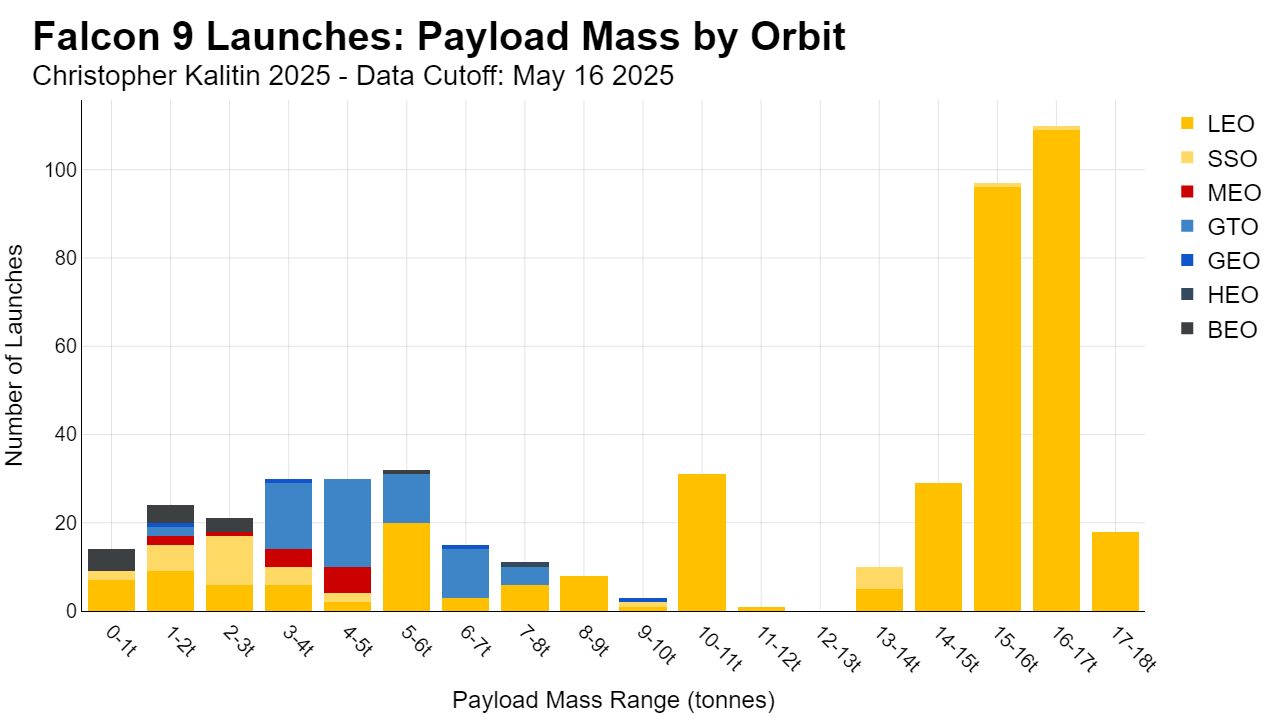
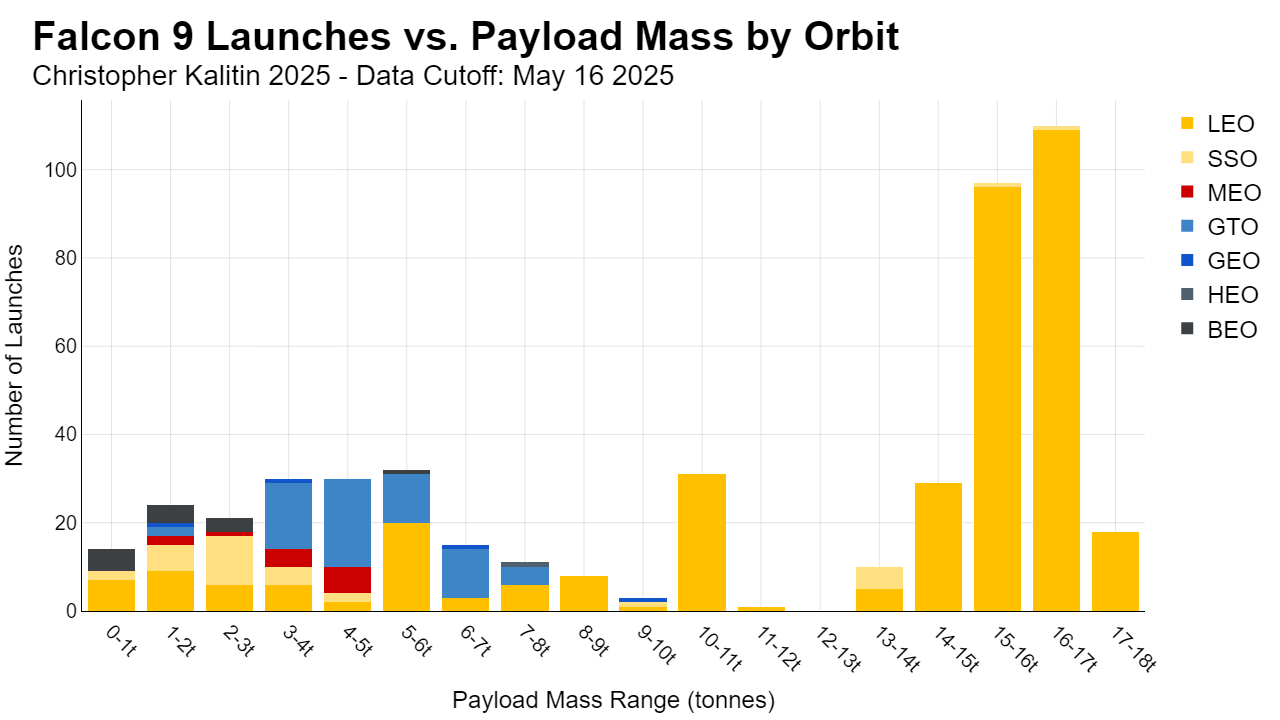
More histogram to chart_utils

diff --git a/src/chart_utils.py b/src/chart_utils.py
@@ -1,10 +1,22 @@
 import pandas as pd
 import matplotlib.pyplot as plt
+import plotly.express as px
+import plotly.io as pio
 
 class ChartUtils:
     """
     This class contains utility functions for working with dataframes and generating charts.
     """
+    
+    orbit_color_map = {
+        'LEO': '#ffc000',
+        'SSO': "#ffdf80",
+        'MEO': '#cc0000',
+        'GTO': '#3d85c6',
+        'GEO': '#1155cc',
+        'HEO': "#51606e",
+        'BEO': '#3c4043'
+    }
     
     def pivot_dataframe(df, index_col, column_col, value_col):
         """
@@ -62,18 +74,50 @@ class ChartUtils:
         plt.close()
         print(f"Plot saved as '{output_path}'.")
 
-    def plot_histogram(df, title, xlabel, ylabel, output_path, stacked=True, figsize=(10, 6)):
-        """
-        Generate a histogram-like plot for a DataFrame with binned data.
-        """
-        plt.figure(figsize=figsize)
-        df.plot(kind='bar', stacked=stacked)
-        plt.title(title)
-        plt.xlabel(xlabel)
-        plt.ylabel(ylabel)
-        plt.grid(True)
-        plt.tight_layout()
-        plt.savefig(output_path)
-        plt.close()
+    def plot_histogram(df, title, subtitle, xlabel, ylabel, output_path, color_map, barmode='stack'):
+        fig = px.histogram(df,
+                    x=df.index,
+                    y=df.columns,
+                    title=f'<b>{title}</b><br><sup>{subtitle}</sup>',
+                    labels={'x': f'{xlabel}', 'y': f'{ylabel}'},
+                    barmode=barmode,
+                    color_discrete_map=color_map,
+                    )
+
+        fig.update_layout(
+            # Font settings
+            font=dict(family='Arial, sans-serif', size=20, color="#000000"),
+            title=dict(font=dict(size=40, family='Arial, sans-serif', color="#000000"), x=0.025, xanchor="left"),
+            # Background and borders
+            plot_bgcolor="white",
+            paper_bgcolor="white",
+            # Gridlines
+            xaxis=dict(
+                gridcolor="rgba(200, 200, 200, 0.5)",
+                linecolor="#000000",
+                tickangle=45,
+                title_font=dict(size=24, family="Arial, sans-serif"),
+                title_text=xlabel,
+            ),
+            yaxis=dict(
+                gridcolor="rgba(200, 200, 200, 0.5)",
+                linecolor="#000000",
+                title_font=dict(size=24, family="Arial, sans-serif"),
+                title_text=ylabel,
+            ),
+            # Legend
+            showlegend=True,
+            legend=dict(
+                font=dict(size=24, family="Arial, sans-serif"),
+                bordercolor="white",
+                borderwidth=1,
+                bgcolor="white",
+                title=dict(text=""),  # Add this line to remove title: "variable"
+            ),
+            # Remove hover effects and other embellishments
+            hovermode="x",
+        )
+
+        pio.write_image(fig, output_path, format='png', width=1280, height=720)
         
         print(f"Plot saved as '{output_path}'.")

diff --git a/examples/f9-mass-chart.py b/examples/f9-mass-chart.py
@@ -1,8 +1,6 @@
 import mcdowell_dataset_analysis as mda
 import pandas as pd
 import copy
-import plotly.express as px
-import plotly.io as pio
 
 # Initialize dataset
 dataset = mda.McdowellDataset("./datasets")
@@ -35,66 +33,12 @@ print(output_df)
 output_df.to_csv('examples/outputs/f9_mass_by_orbit.csv', index=True)
 print("CSV file 'f9_mass_by_orbit.csv' has been created.")
 
-# Plot histogram
-"""mda.ChartUtils.plot_histogram(
+mda.ChartUtils.plot_histogram(
     output_df,
-    title='Falcon 9 Launches: Payload Mass by Orbit',
-    xlabel='Payload Mass Range (Tons)',
+    title='Falcon 9 Launches vs. Payload Mass by Orbit',
+    subtitle='Christopher Kalitin 2025 - Data Cutoff: May 16 2025',
+    xlabel='Payload Mass Range (tonnes)',
     ylabel='Number of Launches',
-    output_path='examples/outputs/f9_mass_by_orbit.png'
-)"""
-
-orbit_colors = {
-    'LEO': '#ffc000',
-    'SSO': '#ffd966',
-    'MEO': '#cc0000',
-    'GTO': '#3d85c6',
-    'GEO': '#1155cc',
-    'HEO': '#34495e',
-    'BEO': '#3c4043'
-}
-
-fig = px.histogram(output_df,
-                   x=output_df.index,
-                   y=output_df.columns,
-                   title='<b>Falcon 9 Launches: Payload Mass by Orbit</b><br><sup>Christopher Kalitin 2025 - Data Cutoff: May 16 2025</sup>',
-                   labels={'x': 'Payload Mass Range (Tons)', 'y': 'Number of Launches'},
-                   barmode='stack',
-                   color_discrete_map=orbit_colors,
-                   )
-
-fig.update_layout(
-    # Font settings
-    font=dict(family='Arial, sans-serif', size=20, color="#000000"),
-    title=dict(font=dict(size=40, family='Arial, sans-serif', color="#000000"), x=0.025, xanchor="left"),
-    # Background and borders
-    plot_bgcolor="white",
-    paper_bgcolor="white",
-    # Gridlines
-    xaxis=dict(
-        gridcolor="rgba(200, 200, 200, 0.5)",
-        linecolor="#000000",
-        tickangle=45,
-        title_font=dict(size=24, family="Arial, sans-serif"),
-        title_text="Payload Mass Range (tonnes)",
-    ),
-    yaxis=dict(
-        gridcolor="rgba(200, 200, 200, 0.5)",
-        linecolor="#000000",
-        title_font=dict(size=24, family="Arial, sans-serif"),
-        title_text="Number of Launches",
-    ),
-    # Legend
-    showlegend=True,
-    legend=dict(
-        font=dict(size=24, family="Arial, sans-serif"),
-        bordercolor="white",
-        borderwidth=1,
-        bgcolor="white",
-        title=dict(text=""),  # Add this line to remove "variable" text
-    ),
-    # Remove hover effects and other embellishments
-    hovermode="x",
+    output_path='examples/outputs/f9_mass_by_orbit.png',
+    color_map=mda.ChartUtils.orbit_color_map
 )
-
-pio.write_image(fig, 'examples/outputs/f9_mass_by_orbit.png', format='png', width=1280, height=720)
